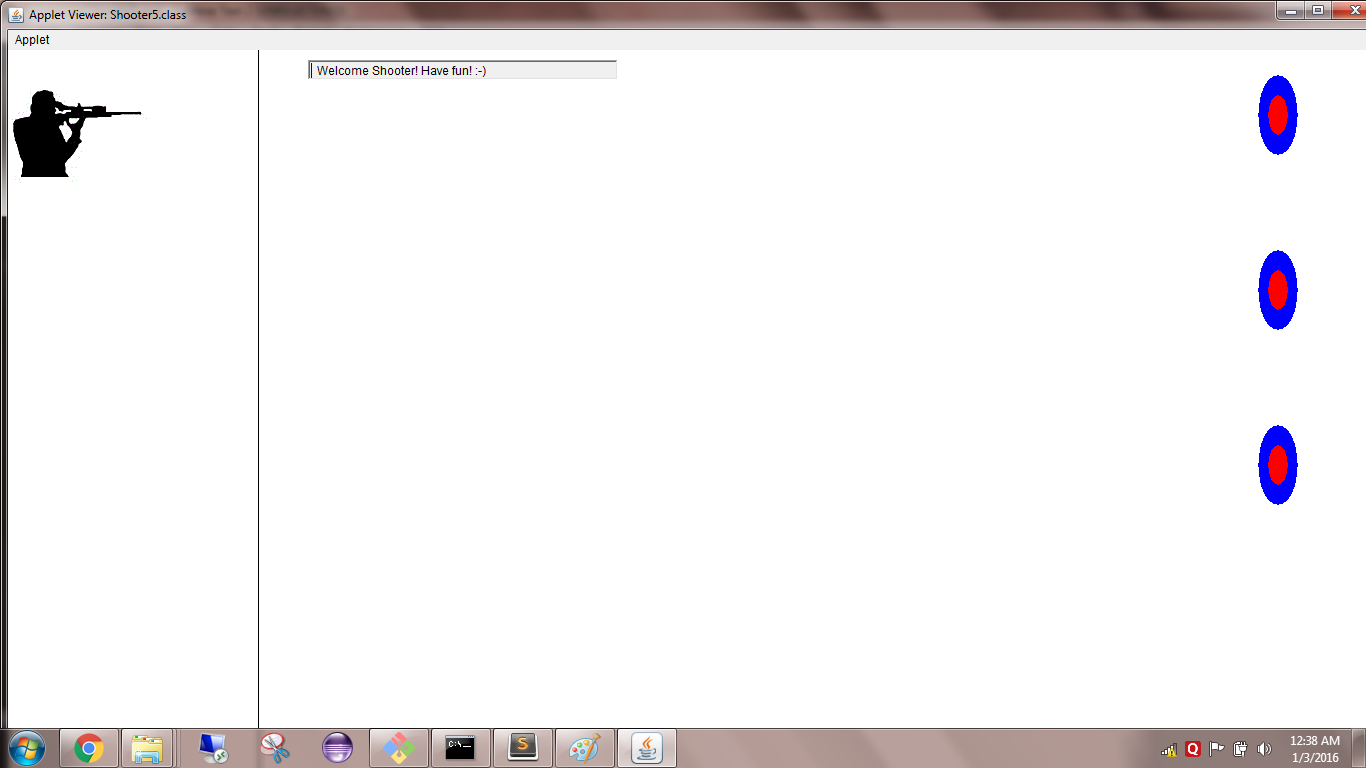
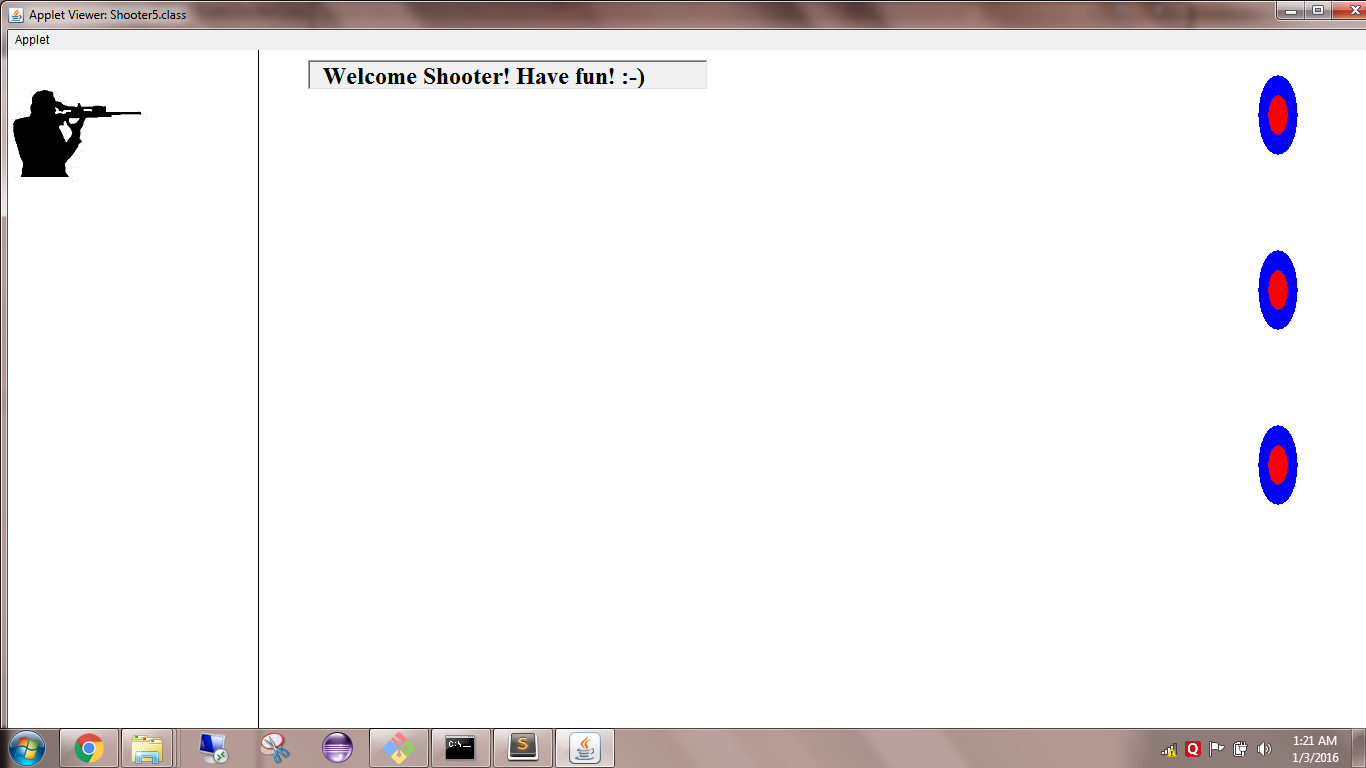
.

diff --git a/Code/Shooter5.java b/Code/Shooter5.java
@@ -2,7 +2,9 @@
 import java.awt.*;
 import java.applet.*;
 import java.awt.event.*;
+import java.awt.Font;
 import javax.swing.*;
+import javax.swing.border.EmptyBorder;
 /*<html>
 <applet code="Shooter5.class" height=2000 width=2000>
 </applet>
@@ -22,8 +24,10 @@ public class Shooter5 extends Applet{
 		tf= new TextField(40);
 		tf.setEditable(false);
 		add(tf);
-		tf.setBounds(300, 10, 310, 20);
+		tf.setBounds(300, 10, 400, 30);
     	setLayout(new BorderLayout());
+    	Font myFont = new Font("TimesRoman", Font.BOLD, 24);
+    	tf.setFont(myFont);
 		img = getImage(getDocumentBase(), "myShooter.gif");
 		tf.setText("  Welcome Shooter! Have fun! :-)  ");
 	}
@@ -50,9 +54,9 @@ public class Shooter5 extends Applet{
 		g.setColor(Color.black);
 		g.drawLine(250,0,250,2000);
 			 
-	 	if(movX>100)
+	 	if(movX>104)
 	 	{
-	 		tf.setText("  Hey, No cheating! please move back and try again!");
+	 		tf.setText("Hey, No cheating! Move back!");
 	 	}
 		if(movX<=215 && movY<=600)
 		{	
@@ -69,23 +73,23 @@ public class Shooter5 extends Applet{
 					 }
 					 k=0;
 				}
-				if(((movY+60)>0 && (movY+60)<100) || ((movY+60)>200 && (movY+60)<280) || ((movY+60)>375 && (movY+60)<455) )
+				if(((movY+60)>0 && (movY+60)<95) || ((movY+60)>195 && (movY+60)<275) || ((movY+60)>370 && (movY+60)<450) )
 				{
-					if(((movY+60)>220 && (movY+60)<260) || ((movY+60)>45 && (movY+60)<85) || ((movY+60)>395 && (movY+60)<435) )
+					if(((movY+60)>215 && (movY+60)<255) || ((movY+60)>40 && (movY+60)<80) || ((movY+60)>390 && (movY+60)<430) )
 					{	
 						score=score+100;
-						tf.setText("  Bull's eye!! That was awesome.	Score: "+"  "+score);
+						tf.setText("  Bull's eye!!  Score: "+"  "+score);
 					}	
 					else
 					{
 						score=score+50;
-						tf.setText("  It's a hit! very nice.	Score: "+"  "+score);
+						tf.setText("  It's a hit!  Score: "+"  "+score);
 					}
 				}	
 				else
 				{
 					score=0;
-				    tf.setText("Oops! you missed the target. Try again.  Score: "+score);
+				    tf.setText("Oops! you missed it.  Score: "+score);
 				}
 			}
 		}
